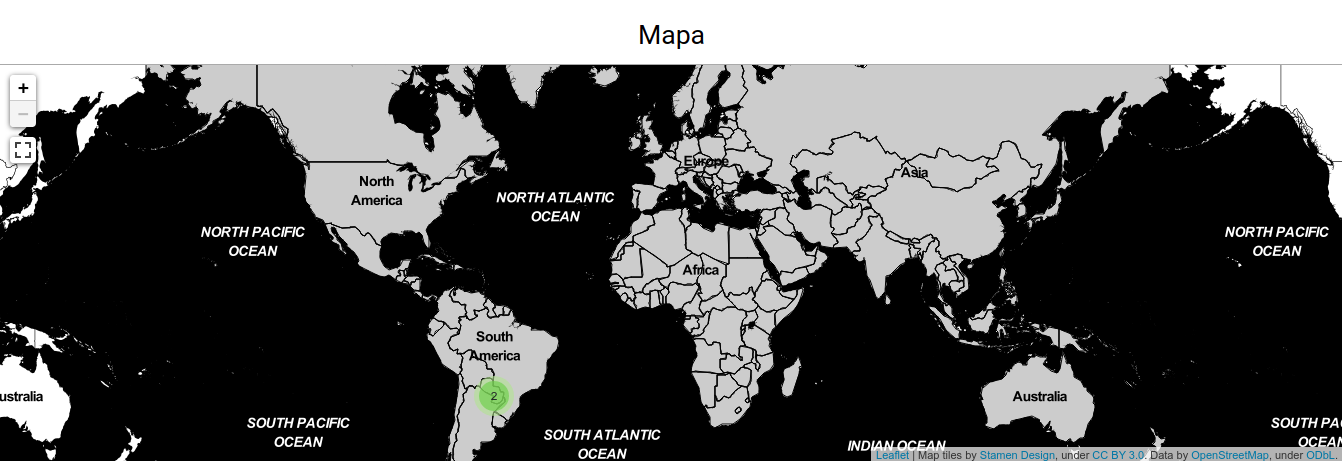
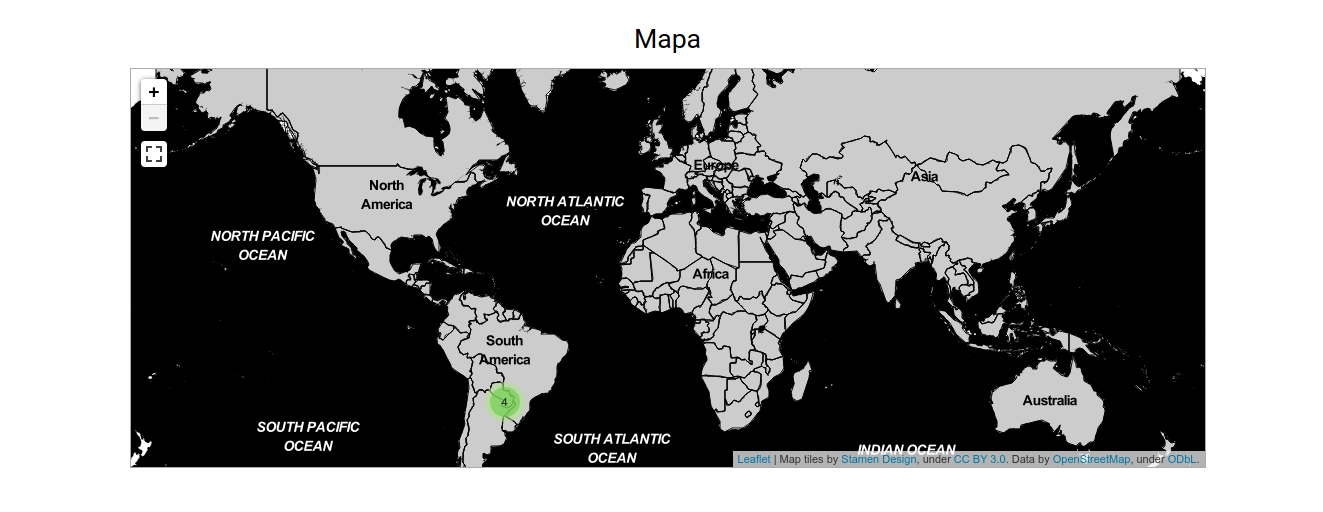
Se agregan nuevos screenshots. Cambio de nombre de visualizaciones a estadisticas.

diff --git a/src/index.html b/src/index.html
@@ -42,7 +42,7 @@
                         <a class="nav-link" href="#map">Mapa</a>
                     </li>
                     <li class="nav-item">
-                        <a class="nav-link" href="#visualitation">Visualizaciones</a>
+                        <a class="nav-link" href="#stats">Estad&iacute;sticas</a>
                     </li>
                 </ul>
             </div>
@@ -76,8 +76,8 @@
     </br>
     </br>
 
-    <div id="visualitation">
-        <div class="title-section">Visualizaciones</div>
+    <div id="stats">
+        <div class="title-section">Estad&iacute;sticas</div>
         <div class="container">
             <div class="row text-center">
                 <div class="col-xs-12 col-sm-4 col-md-4 col-lg-4 text-center">

diff --git a/README.md b/README.md
@@ -11,7 +11,7 @@ Sitio para visualizar a todos los Paraguayos que trabajan en el territorio nacio
 
 ![Screenshot](screenshots/fullscreen_map.png)
 
-![Screenshot](screenshots/visualization.png)
+![Screenshot](screenshots/stats.png)
 
 Levantar en sitio en cualquier server (Apache, etc.)
 [Sitio de ejemplo] (https://paraguayos.proyectosbeta.net/)
